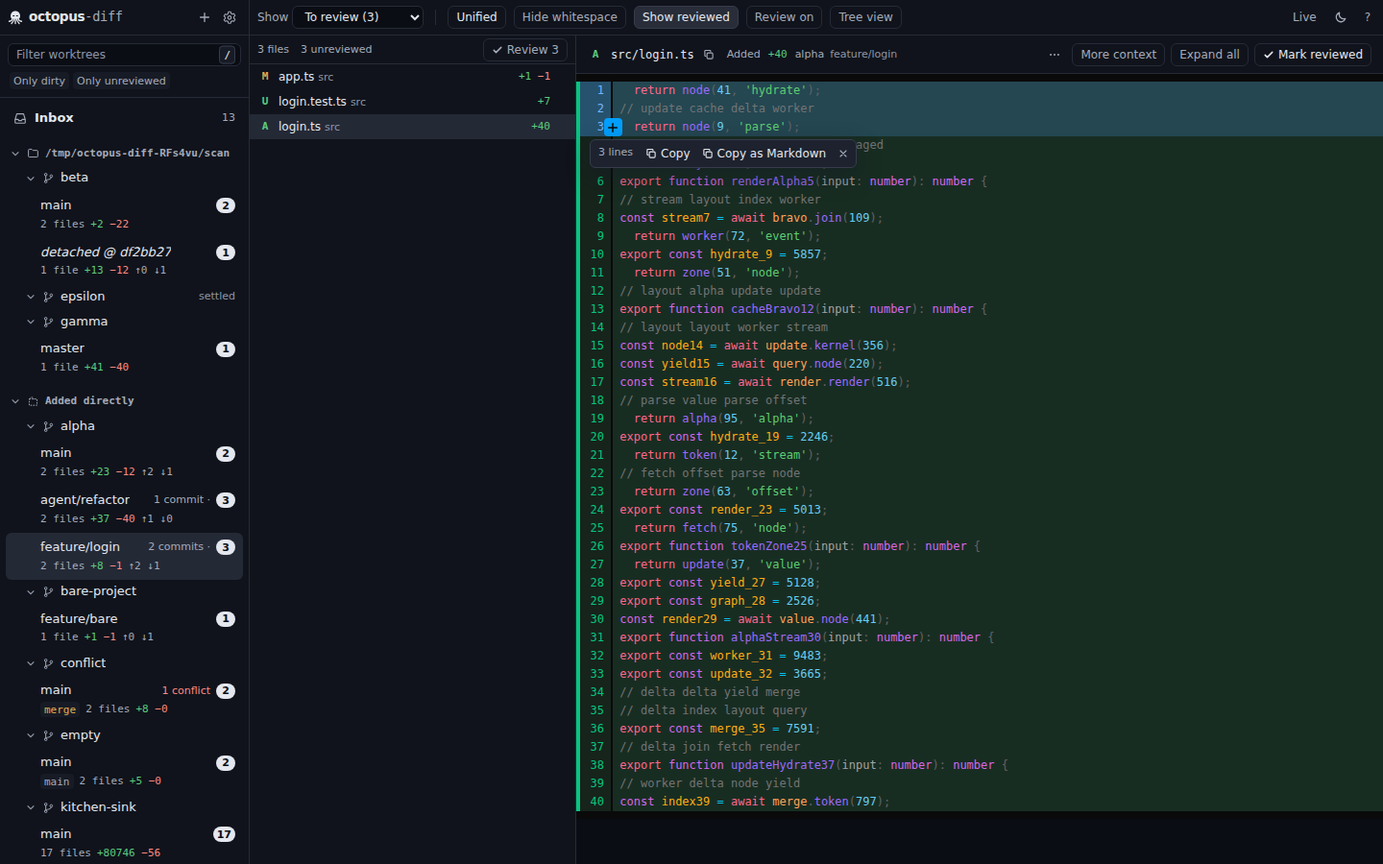
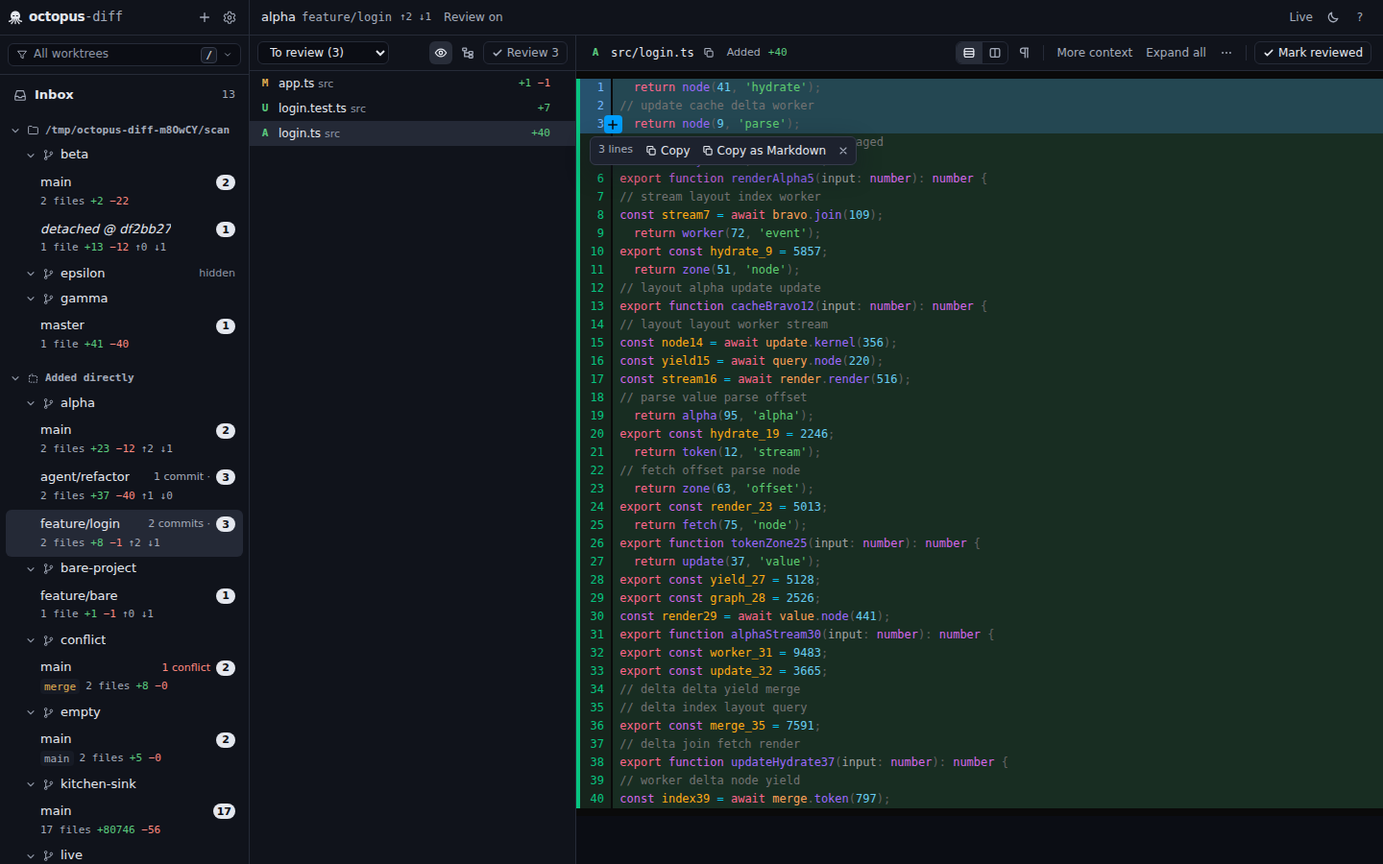
docs: chrome hierarchy design record, DECISIONS #116-#122, PLAN §4.2, IDENTITY §6, README, FORGES, screenshots, report; BLOCKERS: e2e hang in @parcel/watcher shutdown
docs/TOOLBAR.md records the problem, the principles and the three tiers
(context bar, file pane header, diff header). README screenshots and the
Request-tab / hover-card / copy-selection screenshots are regenerated;
the three forge screenshots need a real gh session and are left as they
were. docs/reports/ux-toolbar.md has the verification: pnpm check green,
one full e2e pass after the one deterministic failure was fixed, and
three runs that hung at a daemon shutdown. BLOCKERS (Open, 2) traces
that hang to @parcel/watcher 2.6.0: its inotify thread throws on EINTR
without retrying, skips the ended signal, and the backend destructor
then waits forever when the daemon unsubscribes; two fixes proposed.

diff --git a/apps/web/src/components/Sidebar.tsx b/apps/web/src/components/Sidebar.tsx
@@ -33,8 +33,8 @@ import { ContextMenu, type MenuItem, useContextMenu } from './ContextMenu.tsx';
 import { separated, worktreeCopyItems } from './copyMenu.ts';
 import { useFolderStart } from './FolderBrowser.tsx';
 import { Wordmark } from './Mark.tsx';
-import { RowChips } from './WorktreeChips.tsx';
 import { SidebarFilter } from './SidebarFilter.tsx';
+import { RowChips } from './WorktreeChips.tsx';
 
 /**
  * The sidebar (DECISIONS "UX round 4", status flow v2 in docs/STATUS-FLOW.md): the Inbox;

diff --git a/docs/TOOLBAR.md b/docs/TOOLBAR.md
@@ -1,0 +1,96 @@
+# Chrome hierarchy: the context bar and the pane headers (design)
+
+> Lead, 2026-11-09, branch `ux/toolbar-hierarchy`, on `main` at `90c7cff`. Brief from the user: the controls
+> above the file list and the diff are "too dense, there is little context and hierarchy into which belongs to
+> which"; rearrange them, taking the Request (PR) tab into account. Decisions #116–#122 in `docs/DECISIONS.md`.
+
+## 1. What was there
+
+One 36 px toolbar spanned the file list and the diff pane and mixed four levels of concern in identical 24 px
+bordered buttons, in this order:
+
+```
+[Changes | PR #100] | Show [To review (0) ▾] | Split  Hide whitespace  Show reviewed  Review on  PR #100 · open ↗  Tree view        Live ☾ ?
+ worktree view        list filter               diff   diff             list           worktree   worktree           list             app
+```
+
+Below it, two more header rows: `1 file  0 unreviewed … ✓ Review 0` over the list, and
+`U docs/DESKTOP.md ⧉ Untracked +255 octopus-diff main … ⋯ More context Expand all ✓ Reviewed` over the diff.
+
+The problems, named:
+
+- **No spatial mapping.** Controls that change the *list* (scope, show reviewed, tree view) and controls that
+  change the *diff* (split, whitespace) sat in one row that belonged to neither pane.
+- **Nothing said where you are.** The worktree (project, branch) appeared only as 11 px muted text in the diff
+  header, repeated per file; the Inbox said nothing at all.
+- **Equal weight everywhere.** A policy menu used twice a month (`Review on`), a rendering toggle used every
+  minute (`Split`) and the primary verb (`Reviewed`) all wore the same bordered button.
+- **Navigation looked like a setting.** The `Changes | PR #100` view switch had the same look and row as the
+  option toggles beside it.
+- **Redundancy.** `0 unreviewed` next to `To review (0)`; `PR #100` in the tab and again in the link beside it;
+  the worktree named in the diff header while the sidebar row is selected.
+
+## 2. Principles (from `docs/design/IDENTITY.md`, applied to chrome)
+
+1. **A control sits over what it changes.** List controls over the list, diff controls over the diff; what is
+   about the worktree sits above both.
+2. **Three tiers, one row each.** Where you are (the context bar), what each pane shows (the pane headers), the
+   content. Nothing else between the sidebar and the diff.
+3. **Weight says what matters.** The primary verb is the one bordered, filled control in its row; toggles are
+   ghost icons with a soft fill when pressed; facts are 11 px muted text set apart by space.
+4. **State is a word.** `Review on`, `Live`, `open` stay words; a dot is never the only signal.
+5. **T3 Code is the interaction reference** (`~/contrib/t3code`, `DiffPanel.tsx` header row): a scope control at
+   the left of the diff header, icon toggles with tooltips at the right, a segmented pair for the layout.
+
+## 3. The three tiers
+
+```
+┌ sidebar ┬─ context bar (spans both panes) ───────────────────────────────────────────────────────────┐
+│         │ octopus-api  feat/auth  t3  ↑4 ↓0   [Changes | ⎇ PR #100]   ⎇ open ↗   Review on        Live ☾ ? │
+│         ├─ file pane header ───────────────────┬─ diff header ───────────────────────────────────────────┤
+│         │ [To review (17) ▾]      👁 ⊞  ✓ Review 17 │ M src/both.ts ⧉ Modified +2 −2     [≡|⫴] ¶ │ More context Expand all ⋯ │ ✓ Reviewed │
+│         ├──────────────────────────────────────┼─────────────────────────────────────────────────────────┤
+│         │ file rows                            │ the diff                                                 │
+```
+
+### 3.1 Context bar (`components/ContextBar.tsx`, `data-testid="context-bar"`)
+
+Says where you are and which view of it is open. Identical on the Changes and Request tabs: the tabs switch
+what is *below* it.
+
+| Slot | Inbox | Worktree |
+|---|---|---|
+| Identity (13 px, project 500, branch mono muted; tooltip: path) | `Inbox` | `octopus-api` `feat/auth` |
+| Facts (11 px muted, spaced) | `5 worktrees` `17 files` (what the list holds in the current scope) | chips `main` / source / in-progress, `↑4 ↓0` |
+| View switch (`od-seg`, only with a matched request) | – | `[Changes \| ⎇ PR #100]` |
+| Forge link (ghost, only on the Changes tab; the Request header carries it) | – | `⎇ open  changes requested ↗` (state words, no number: the tab has it) |
+| Review policy (ghost when on, raised when off) | – | `Review on` |
+| App chrome (right, ghost) | `Live` `☾` `?` | the same |
+
+### 3.2 File pane header (`components/FilePaneHeader.tsx`)
+
+One 36 px row over the list. Left: the scope `<select>` (`To review (17)`, counts per scope; the commit list and
+its copy button follow when the commit scope is chosen and wrap under it). Right: `Show reviewed` (eye, pressed =
+reviewed files are listed), `Tree view` (worktree view only), then `✓ Review 17`, the one bordered control.
+
+The `17 files  17 unreviewed` line is gone: the select carries the total, the button carries the unreviewed count.
+
+### 3.3 Diff header (`components/diff/DiffPane.tsx`)
+
+Always rendered in the Changes view, so the rendering options have a fixed home. Left: status letter, path, copy
+button, status word, `+a −d`; the worktree name only in the Inbox, where the file's worktree is not the selected
+one. Right, in three groups separated by hairlines: rendering (`[unified | split]` segmented icons, whitespace
+pilcrow), this file (`More context`, `Expand all` as ghost text, `⋯` copy menu), then `✓ Reviewed`.
+
+## 4. What the tests pin, kept as is
+
+`scopeSelect` (native select, `data-scope`), `diffModeToggle` (`data-mode`; now the segmented group, its buttons
+carry `data-mode-option`), `whitespaceToggle` / `showReviewedToggle` (`aria-pressed`), `worktreeTabs` /
+`worktreeTab` (`data-tab`), `changeRequestBadge` (href, target, rel, `data-number`; on the Changes tab),
+`reviewPolicyChip` (`data-enabled`, `data-source`), `markAllButton`, `reviewToggle`, `refreshIndicator`,
+`themeToggle`, the `Tree view` accessible name. e2e: `AppPage.setDiffMode` learns the segmented control.
+
+## 5. Out of scope, deliberately
+
+The Overview (folder, project) keeps its own heading and no bar, as before. The Request view's inner
+`Summary | Timeline | Files` control and its header are untouched. No new preference, route or contract.

diff --git a/docs/reports/ux-toolbar.md b/docs/reports/ux-toolbar.md
@@ -1,0 +1,75 @@
+# ux-toolbar report (chrome hierarchy: context bar and pane headers)
+
+2026-11-09. Branch `ux/toolbar-hierarchy` on `main` at `90c7cff`, worktree `~/.t3/worktrees/octopus-diff/ux-toolbar`.
+Brief from the user: the controls above the file list and the diff are "too dense, there is little context and
+hierarchy into which belongs to which"; rearrange them, taking the Request (PR) tab into account; plan in a worktree,
+open a PR. Design record: `docs/TOOLBAR.md`. Decisions #116–#122.
+
+## Shipped
+
+The one toolbar that spanned both panes is replaced by three tiers, one row each; a control sits over what it changes.
+
+| Tier | Where | Holds |
+|---|---|---|
+| **Context bar** (`components/ContextBar.tsx`) | above both panes, the same on the Changes and Request tabs | where you are: `Inbox  5 worktrees  30 files`, or `octopus-api  feat/auth` with its chips (`main`, source, in-progress) and `↑4 ↓0`; the `Changes \| PR #100` switch; the forge link as state words (`open  changes requested ↗`, Changes tab only); `Review on` (ghost) / `Review off` (raised); at the right `Live`, theme, `?` |
+| **File pane header** (`components/FilePaneHeader.tsx`, `ScopeSelect.tsx`) | over the list | the scope select with counts (the commit picker and its copy button on a second row); show reviewed (eye), tree view (worktree only) as ghost icon toggles; `✓ Review 17` |
+| **Diff header** (`components/diff/DiffPane.tsx`) | over the diff, always rendered | status, path, copy, status word, `+a −d` (the worktree name only in the Inbox); at the right `[unified \| split]` as a segmented icon pair, whitespace (pilcrow), a hairline, `More context` / `Expand all` (ghost text), `⋯`, a hairline, `✓ Reviewed` |
+
+Removed as redundant: the `17 files  17 unreviewed` line, the worktree name in the diff header outside the Inbox, the
+`Show` label, `PR #100` repeated in the link. New recipes in `styles.css`: pressed ghost toggles keep the soft fill,
+`.od-btn-icon`, `.od-sep`. Five stroke icons in `bits.tsx` (rows, columns, pilcrow, eye, tree). `RowChips` moved to
+`WorktreeChips.tsx` and is shared by the sidebar and the bar. `Toolbar.tsx` is gone; `ALL_ON_BRANCH` lives in
+`lib/scopeLabels.ts`. `scripts/shots.ts` gained a `commit-scope` state.
+
+Every test id and attribute the suites read is unchanged (`scope-select` + `data-scope`, `diff-mode-toggle` +
+`data-mode`, `whitespace-toggle` / `show-reviewed-toggle` + `aria-pressed`, `worktree-tabs` / `worktree-tab`,
+`change-request-badge` with href / target / rel / `data-number`, `review-policy-chip`, `mark-all-button`,
+`review-toggle`, `refresh-indicator`, `theme-toggle`, the `Tree view` accessible name). New plain test ids:
+`context-bar`, `context-bar-worktree`, `tree-view-toggle`, `diff-header-worktree`, `data-mode-option` on the two
+layout buttons.
+
+## Verification (this worktree, Node 26)
+
+| Command | Result |
+|---|---|
+| `pnpm check` | **exit 0**: lint `Checked 399 files … No fixes applied`, credits up to date; typecheck and build every package; tests web **210** (+1), daemon 187, cli 139, fixtures, git-core, contracts, forge, e2e-vitest 5; all passed |
+| `pnpm test:e2e`, first run | 82 passed, **1 failed**: `04-live-updates` "sidebar counts follow external edits in the inbox view" asserted a row of the virtualized Inbox list with `toBeVisible`; the 6 px taller file pane header left that row outside the mounted window (deterministic, reproduced alone). Fixed with the suite's own `allFileItems()` helper (#122); the spec then passes 5/5 |
+| `pnpm test:e2e`, runs 2, 3 and 4 | **hung** after 82, 64 and 50 passed tests (zero failures), each time at a daemon shutdown: the `@parcel/watcher` `EINTR` deadlock recorded in `docs/BLOCKERS.md` (Open, 2); killed after 12 to 23 minutes. Not the UI: one hang followed an API-only test, and the page closes before the daemon fixture does |
+| `pnpm test:e2e` on an untouched `main` checkout (control, same machine) | run 1: 82 passed, 1 failed (`11-ui-bulk-review` "stale: … skipped", `stateHash … did not change`: a timing failure unrelated to this branch); run 2: 82 passed, 1 failed (`16-copy` "select two lines → Copy bar", the bar not visible in time: another timing failure). Neither control run hung; 1 of 4 branch runs completed. The branch does not touch the daemon or its dependencies |
+| `pnpm --filter @octopus-diff/web shots` (mock, `inbox`, `worktree`, `request`, `commit-scope`, `policy-menu`; both brand themes, 1440 and 960) | inspected: the bar fits one line at 960; the diff header wraps its controls under the path at 960; the commit picker takes its own row |
+| `pnpm --filter @octopus-diff/e2e screenshots`, `copy-screenshots.ts` | README screenshots regenerated from the fixtures (inbox, diff split / unified, folder picker, palette, help, copy selection; light and dark) |
+
+## Decisions
+
+#116 three tiers · #117 one bar for both tabs, the forge link says the state · #118 ghost icon toggles, segmented
+layout pair, bordered primary verb · #119 what was dropped · #120 the diff header is always rendered · #121 what was
+left alone · #122 files, including the three e2e edits. All in `docs/DECISIONS.md` under "Chrome hierarchy".
+
+## Contract changes
+
+None.
+
+## Dependencies
+
+None added or removed; `pnpm credits:check` passes unchanged.
+
+## Known gaps
+
+- The e2e suite hangs at a daemon shutdown in most runs on this machine (`@parcel/watcher` 2.6.0 does not retry
+  `EINTR`, then deadlocks on destruction): `docs/BLOCKERS.md` (Open, 2) has the trace and two fixes. Every spec that
+  ran passed; the one failure the branch caused is fixed (#122). Until the watcher is patched, run spec files alone or
+  rerun.
+- `docs/screenshots/forges-dark.png`, `forges-light.png` and `forges-settings-dark.png` still show the old toolbar.
+  They were taken against a real `gh` session and throwaway repositories (`docs/reports/forges.md`), which an
+  autonomous session must not use; the user can retake them with the same recipe.
+- The Overview (folder, project) has no bar, as before, so `Live`, the theme toggle and `?` are absent there; the
+  shortcuts (`t`, `?`) still work. A follow-up if it is missed.
+- At 960 px the diff header wraps its controls under the file identity when a patch is open; accepted.
+- The scope select stays a native `<select>` (T3's dropdown menu would need a custom listbox and new test helpers).
+
+## Notes for integration
+
+Pure `apps/web` + `docs` + three e2e lines (`support/app.ts` `setDiffMode` learns the segmented pair; `16-copy`
+`setMode` delegates to it; `04-live-updates` scans the virtualized list). Fast-forwards onto `main` at `90c7cff`. No
+preference migration: `diffMode`, `ignoreWhitespace`, `showReviewed`, `fileListLayout` keep their keys. The LAN daemon
+(`octopus-diff-lan`) needs a rebuild and restart to show the new chrome.

diff --git a/docs/DECISIONS.md b/docs/DECISIONS.md
@@ -1569,3 +1569,52 @@ request, git call or contract change.
      and the e2e `data-state` values keep working.
 115. **Screenshots.** `e2e/scripts/screenshots.ts` adds `sidebar-filter-{light,dark}.png` (dropdown open, Only
      dirty and `alpha` ticked); every README screenshot was regenerated since the sidebar header changed.
+
+## Chrome hierarchy: the context bar and the pane headers (lead, 2026-11-09)
+
+Design record: `docs/TOOLBAR.md`. Brief from the user: the controls above the file list and the diff are too dense,
+with little context and no hierarchy of what belongs to what; rearrange them, taking the Request tab into account.
+Web only, plus two e2e helper lines; no daemon, contract or preference change.
+
+116. **Three tiers, one row each.** The toolbar that spanned both panes is gone. A **context bar**
+     (`components/ContextBar.tsx`) above both panes says where you are (the Inbox with its worktree and file counts,
+     or the worktree's project and branch with its chips and `↑a ↓b`, the path in the tooltip), holds the
+     `Changes | PR #n` switch, the forge link, the review policy and, at the right, the app chrome (Live, theme,
+     help). Each pane then has one header: the **file pane header** (`components/FilePaneHeader.tsx`, moved out of
+     `App.tsx`) with the scope select, the two list toggles and `Review N`; the **diff header** with the file's
+     identity and, at the right, the rendering options, the per-file actions and `Reviewed`. A control sits over
+     what it changes. Reason: the one-row toolbar mixed app, worktree, list and diff concerns in identical bordered
+     buttons, and nothing named the worktree.
+117. **The context bar is the same on both tabs**; the tabs switch what sits below it. The forge link
+     (`ChangeRequestBadge`) shows on the Changes tab only: the Request header already carries `#n ↗` and the state
+     word. The link now says the state words set apart by space (`open  changes requested  out of sync`) instead of
+     `PR #100 · open · …`: the tab beside it has the number, and IDENTITY §5 bans the middle dot between facts.
+118. **Toggles are ghost icons; the primary verb keeps the border.** Show reviewed (an eye, pressed while reviewed
+     files are listed), tree view, whitespace (a pilcrow) and the `⋯` menu are icon-only ghost buttons with a `title`
+     and an `aria-label`; a pressed ghost keeps the soft fill (new rules in `styles.css`: `.od-btn-ghost[aria-pressed]`,
+     `.od-btn-icon`, `.od-sep`). Unified / split is a segmented pair of icons, after T3 Code's layout group: the group
+     carries `data-testid="diff-mode-toggle"` and `data-mode` for the tests, each button `data-mode-option`, and
+     `AppPage.setDiffMode` (e2e) clicks the wanted half. `More context` and `Expand all` are ghost text. `Review N`
+     and `Reviewed` stay bordered: one filled control per row. `Review on` is ghost when on and raised when off, so
+     the exception is the loud one.
+119. **Dropped as redundant.** The `N files  N unreviewed` line over the list (the select carries the total,
+     `Review N` the unreviewed count; the Inbox's `N worktrees` moved into the bar); the worktree name in the diff
+     header outside the Inbox (the bar names it; in the Inbox the list mixes worktrees, so the header keeps it); the
+     `Show` label before the scope select (its place over the list says it; `aria-label` and `title` keep the words);
+     `PR #n` repeated in the link.
+120. **The diff header is always rendered in the Changes view**, so the rendering options have a fixed home with no
+     file open (and the e2e theme spec, which reads `data-mode` right after load, keeps working); the per-file
+     actions appear with a selection.
+121. **Not changed.** The Overview keeps its own heading and no bar (the app chrome is absent there, as before; a
+     follow-up if it is missed). The Request view's header and its `Summary | Timeline | Files` control are
+     untouched. The scope select stays a native `<select>` (the unit and e2e tests drive it with `change` /
+     `selectOption`; T3's dropdown menu would need a custom listbox). Both pane headers are 36 px so their hairlines
+     meet; the two-row wrap in the commit scope (commit list and copy button under the select) is accepted.
+122. **Files.** New `ContextBar.tsx`, `FilePaneHeader.tsx`, `ScopeSelect.tsx` (the scope logic from the old
+     toolbar), `WorktreeChips.tsx` (`RowChips`, shared with the sidebar); `Toolbar.tsx` deleted; `ALL_ON_BRANCH`
+     moved to `lib/scopeLabels.ts`; five stroke icons in `bits.tsx`; `scripts/shots.ts` gains `commit-scope`.
+     Outside `apps/web`: `e2e/support/app.ts` `setDiffMode` and `e2e/tests/16-copy.spec.ts` `setMode` (the segmented
+     control), and `e2e/tests/04-live-updates.spec.ts` "sidebar counts follow external edits in the inbox view": it
+     asserted a row of the virtualized Inbox list with `toBeVisible`, and the 6 px taller file pane header (30 → 36)
+     left that row outside the mounted window; it now scans the list with the existing `allFileItems()` helper. PLAN §4.2 "Toolbar" paragraph rewritten; IDENTITY §6 gains the chrome rule; README and `FORGES.md` say
+     "the bar above the panes".

diff --git a/docs/design/IDENTITY.md b/docs/design/IDENTITY.md
@@ -123,6 +123,7 @@ Shared by all themes; defined once in `apps/web/src/styles.css` as `--od-*` cust
 - **Icons**: one stroke set on a 16-unit grid, 1.5 px stroke, round caps, `currentColor`, drawn in `components/bits.tsx` (close, more, sun, moon, warning, check) plus `Mark`. Never a font glyph for a control (☾ ✕ ⋯ ⚠ render as emoji or in a different weight depending on the platform). Arrows inside data (`↑2 ↓1`, `old → new`) are text in the mono face.
 - **State is a word, not a dot.** No status dots: a settled worktree says one word (`clean`, `verified`, `review off`, `missing`, `error`); a card says `3 files`, `1 conflict`; the connection says `Live`, `Offline` or `Refreshing…`; the review chip says `Review on` or `Review off`. Colour-only dots broke the product's own rule that colour is never the only signal. The one dot left is the activity pulse (`.od-pulse`): a live state, shown for ten seconds after a worktree changes, with a static dot under reduced motion.
 - **The sidebar is folders, cards and one shelf** (DECISIONS "UX round 4", #47–#53, #60). Inbox; **Pinned** (label only when something is pinned); then each folder (scan root) as a header in the 11 px label face with its path in mono, a chevron and, while closed, a `faint` worktree count and the pill; under it each project as a header (chevron, repo glyph, name at 500, the same hidden stats while closed, the word `settled` when nothing is open); under that the project's open worktrees as **cards** with a 6 px radius and no border: line one is the branch at 500 (italic `detached` when there is none) with the status slot at the right (the unreviewed pill, `1 conflict` in danger, or one `faint` word); line two is the meta line in mono 11 px `muted` (chips `main` / source / in-progress operation, `N files`, `+a −d`, `↑x ↓y`), left out when empty. Pinned and settled cards sit outside their project, so they start with a project line (repo glyph, name, 11 px `muted`) that carries the status slot instead. Hover or focus swaps the status slot for one 11 px text button, `✓ Settle` or `↶ Un-settle`; every other action is on right-click (or the keyboard's menu key), with no `⋯` anywhere in the sidebar. After a moment of hover, a hover card (elevation 2, 320 px, to the right of the row) lists the details as a definition list with 11 px `faint` labels. **Settled** at the bottom is a shelf header with a count, closed by default; its cards are in `muted`. The pill is the only filled shape; nothing reorders on activity; a closed shelf still shows the selected row.
+- **Chrome is three tiers, one row each** (`docs/TOOLBAR.md`, DECISIONS #116–#122). The context bar above both panes says where you are (project at 500, branch in mono `muted`, chips, `↑a ↓b`), holds the view switch, the forge link, the review policy and the app chrome at the right; one header per pane holds that pane's controls; then the content. A control sits over what it changes. Toggles are ghost icons (`od-btn-ghost od-btn-icon`, pressed = `accentSoft`), a two-state layout choice is a segmented pair (`.od-seg`), groups in a row are parted by `.od-sep` hairlines, and the primary verb (`Review N`, `Reviewed`) is the one bordered control in its row. Both pane headers are 36 px so their hairlines meet.
 - **No boxes for numbers.** Summary figures are set as a definition list (number over label, hairlines above and below), never as a grid of tiles.
 - **Density**: `data-density="compact" | "comfortable"` on the root (a per-device preference). It changes only `--od-row` (26 / 30 px), `--od-pad-x` (8 / 10 px) and the base font size (13 / 13.5 px). Compact is the default: the product is for people who have thirty worktrees open.
 

diff --git a/docs/BLOCKERS.md b/docs/BLOCKERS.md
@@ -13,6 +13,34 @@ Resolved items move to the bottom with the resolution.
    `sudo apt install libnss3 libnspr4 libasound2t64` (or `sudo pnpm --filter @octopus-diff/e2e exec
    playwright install-deps chromium`), then delete `~/.cache/octopus-diff-dev/`.
 
+2. **2026-11-09 · lead · The e2e suite can hang forever at a daemon shutdown (`@parcel/watcher` 2.6.0 deadlock).**
+   Seen in 3 of 4 full `pnpm test:e2e` runs on `ux/toolbar-hierarchy` (after tests 82, 64 and 50, zero failures each
+   time) and in neither of 2 control runs on an untouched `main` checkout the same hour (each of those had one unrelated
+   timing failure instead: `11-ui-bulk-review` "stale … skipped", then `16-copy` "select two lines"). The asymmetry
+   (1 of 4 branch runs complete, 2 of 2 on `main`) may be chance or the timing of git spawns around shutdown; the
+   branch does not touch the daemon or its dependencies. Signature: the log ends with the daemon's
+   `watcher error; polling continues … Unable to poll: Interrupted system call` warnings, then nothing; the Playwright
+   worker's main thread sits in a futex wait (`/proc/<pid>/task/<pid>/wchan` = `futex_do_wait`; a healthy worker
+   reads its pipe), the browser is idle, the runner spins at ~65 % CPU in the read-only proof poller
+   (it walks every control repository's whole git dir every 20 ms), and the per-test timeout never fires because it
+   lives in the blocked worker. Cause, from the native source in
+   `node_modules/.pnpm/@parcel+watcher@2.6.0/node_modules/@parcel/watcher/src`: `InotifyBackend::start()` calls
+   `poll()` and throws `"Unable to poll: " + strerror(errno)` on any negative result, `EINTR` included (a signal
+   delivered to the watcher thread, e.g. `SIGCHLD` from the many short git processes); the throw skips
+   `mEndedSignal.notify()` after the loop; `Backend::run()` catches it, reports it (the daemon's "polling continues"
+   path) and the thread ends. When the daemon's `close()` later unsubscribes the last watcher of that backend,
+   `~InotifyBackend()` does `mEndedSignal.wait()`, which never returns, and the process's main thread is the one
+   observed blocked. 2.6.0 is the newest release (`pnpm view @parcel/watcher version`). *Impact:* a full e2e run is a
+   coin flip on this machine; any daemon, the LAN one included, can deadlock on shutdown after one `EINTR` in a
+   watcher thread. The web UI is not involved: one hang followed an API-only test, and the page is closed before the
+   daemon fixture closes. *Workaround:* rerun, or run spec files alone
+   (`pnpm --filter @octopus-diff/e2e exec playwright test tests/<spec>`). *Proper fix (WS2 / lead):* retry `EINTR`
+   in `InotifyBackend::start()` (`if (result < 0) { if (errno == EINTR) continue; throw … }`) as a pnpm patch
+   (`pnpm patch @parcel/watcher`, which also needs `allowBuilds` for the rebuild) or upstream; or make
+   `apps/daemon/src/watcher.ts` skip awaiting `unsubscribe()` for a subscription whose backend already reported an
+   error (its thread is gone; there is nothing to wait for). Not changed in this round: the daemon and its
+   dependencies are outside its scope.
+
 ### WS1 — git-core
 
 1. **2026-11-08 · WS1 · `pnpm install` exits non-zero on a fresh worktree** with

diff --git a/README.md b/README.md
@@ -141,8 +141,8 @@ Settings → Folders → **Start browsing in** sets where the picker opens (defa
   clear it again ("Mark all as unreviewed"). A toast offers **Undo** (also `Ctrl/Cmd+Z`) for ten minutes.
   A worktree that changed after you last looked is skipped and reported, so you never verify a diff you
   did not see.
-- **Review on or off, per level.** The chip in the toolbar shows whether review is on for the selected
-  worktree and where that comes from. You can turn it on or off for the worktree, its branch, its
+- **Review on or off, per level.** `Review on` in the bar above the panes shows whether review is on for the
+  selected worktree and where that comes from. You can turn it on or off for the worktree, its branch, its
   project, or the folder (scan root) it was discovered in; the most specific setting wins (worktree,
   then branch, project, folder, then the default). **Review is on by default**, which is what every new
   repository, worktree and branch gets; switch the default off in Settings to make review opt-in. A
@@ -165,15 +165,15 @@ Settings → Folders → **Start browsing in** sets where the picker opens (defa
 - **Pull and merge requests.** If the GitHub CLI (`gh`) or GitLab CLI (`glab`) is installed and signed in,
   each worktree on a feature branch shows its PR/MR next to the branch: number, open / draft / merged /
   closed, and a CI dot; the tooltip adds the review decision, conflicts and whether the request's head
-  matches your HEAD, and the toolbar links to it. Forges are found from your remotes (github.com, GitHub
+  matches your HEAD, and the bar above the panes links to it. Forges are found from your remotes (github.com, GitHub
   Enterprise, gitlab.com, self-managed GitLab, ssh aliases, forks through `upstream`) with no setup;
   Settings → Forges shows what was found, turns the feature off, or names a host by hand. Read-only:
   octopus-diff only runs the CLIs' query commands and never sees a token. Details:
   [`docs/FORGES.md`](docs/FORGES.md).
 
-  ![Pull request chips in the sidebar and the PR link in the toolbar](docs/screenshots/forges-dark.png)
+  ![Pull request chips in the sidebar and the PR link in the bar above the panes](docs/screenshots/forges-dark.png)
 - **The Request tab.** A worktree whose branch has a PR/MR gets a `Changes | PR #12` switch in the
-  toolbar. The Request tab shows, read-only: reviewers (with `stale` verdicts), labels and mergeability;
+  bar above the panes. The Request tab shows, read-only: reviewers (with `stale` verdicts), labels and mergeability;
   the description (markdown, no raw HTML); the checks grouped as *needs attention*, *running* and
   *passed*, refreshed while they run; the conversation (comments, reviews, review threads, with filters
   and paging); a timeline; and the changed files, marking the ones also changed in your worktree (click

diff --git a/docs/FORGES.md b/docs/FORGES.md
@@ -10,7 +10,7 @@ conflicts and whether its head matches the worktree's HEAD. It uses the `gh` and
 already signed in to. It is **read-only**: octopus-diff never creates, edits, merges or comments, and never
 reads, stores or forwards a token.
 
-![PR chips in the sidebar and the PR link in the toolbar](screenshots/forges-dark.png)
+![PR chips in the sidebar and the PR link in the context bar](screenshots/forges-dark.png)
 
 The design follows T3 Code's source-control layer (`~/contrib/t3code/packages/source-control-*`, MIT;
 ideas and two small adapted parsers, attributed in comments), scaled down to what a read-only,
@@ -21,7 +21,7 @@ many-worktree tool needs.
 | Where | What |
 |---|---|
 | Sidebar row, Overview row | Chip after the branch: PR/MR glyph (open, draft, merged, closed), `#123` / `!123`, a CI dot (green passed, red failed, amber running). Tooltip: title, `head → base`, author, CI counts, review, conflicts, comments, "head differs from HEAD". |
-| Toolbar (selected worktree) | Link to the request on its forge: `PR #123 · open · changes requested · out of sync ↗`. For a worktree with a request, a `Changes | PR #123` segmented control switches to the Request tab. |
+| Context bar (selected worktree) | The `Changes | PR #123` switch opens the Request tab; beside it, on the Changes tab, a link to the request on its forge with its state words (`open  changes requested  out of sync ↗`). |
 | Sidebar hover card | A request block from the batch data (no extra query): glyph, number, state, title, `head → base`, author, `N files +a −d`, `21/22 checks passed · 1 failing`, review, merge state, comments, updated, and the out-of-sync explanation. |
 | Project Overview | A **Pull request** column (chip, title, review word). **Repository information**: local facts (remotes with credentials removed, default branch with `↑a ↓b` against its upstream as of the last fetch, last commit, branch/tag/worktree counts, last activity) and forge facts (`host/owner/name ↗`, description, visibility, archived, fork of, license, language, topics, open request and issue counts linking to the forge, default-branch CI, pushed). **Open pull requests** below the worktree table (newest 20): rows checked out locally open that worktree's Request tab, the others open the forge. |
 | Folder Overview | Columns `Default branch` (with ahead/behind), `Last commit`, `Forge` and `PRs`, and roll-ups `open pull requests` and `need attention` (failing CI, changes requested or conflicts). No forge query: local facts plus the batch data. |

diff --git a/docs/PLAN.md b/docs/PLAN.md
@@ -124,11 +124,16 @@ Three-pane layout, dark and light themes:
    regions, lazy rendering with virtualization for huge diffs, binary / too-large placeholders,
    rename display (`old → new`), submodule and symlink diffs shown sanely.
 
-Toolbar: scope filter with counts (`To review (5) · All on branch (12) · Uncommitted (3) · Staged · Unstaged ·
-Commit…`), one verb "Reviewed" (`r` per file, **Review all** `⇧R`, undo restores the bookmark too), split/unified, whitespace, "show reviewed" toggle, refresh indicator. For a worktree whose
-branch has a matched pull/merge request, a `Changes | PR #n` switch opens the **Request** tab (read-only: summary,
-checks, conversation, timeline, files; `docs/FORGES.md`). Folder and project Overviews show repository information
-(local git facts; the project Overview also the forge's facts and open requests).
+Chrome (`docs/TOOLBAR.md`, DECISIONS #116–#122): three tiers, one row each. A **context bar** above both panes says
+where you are (the Inbox with its counts, or the worktree's project and branch with its chips and `↑a ↓b`), holds the
+`Changes | PR #n` switch for a worktree whose branch has a matched pull/merge request (the **Request** tab, read-only:
+summary, checks, conversation, timeline, files; `docs/FORGES.md`), the forge link, the review policy and, at the
+right, the refresh indicator, theme and help. The **file pane header** holds the scope select with counts
+(`To review (5)`, `All on branch (12)`, `Uncommitted (3)`, `Staged`, `Unstaged`, `Commit…`), the show-reviewed and
+tree-view toggles and **Review N** (`⇧R`; undo restores the bookmark too). The **diff header** holds the file's
+identity and, at the right, unified / split and whitespace, `More context` / `Expand all`, the `⋯` menu and the one
+verb **Reviewed** (`r`). A control sits over what it changes. Folder and project Overviews show repository
+information (local git facts; the project Overview also the forge's facts and open requests).
 
 Copy (`docs/COPY-TOOLS.md`, web only): a "Copy" group in the worktree menus (sidebar, Overview, Inbox group
 headers: branch name, worktree path, commit id), a file menu on list and tree rows (path, old path, name, absolute
